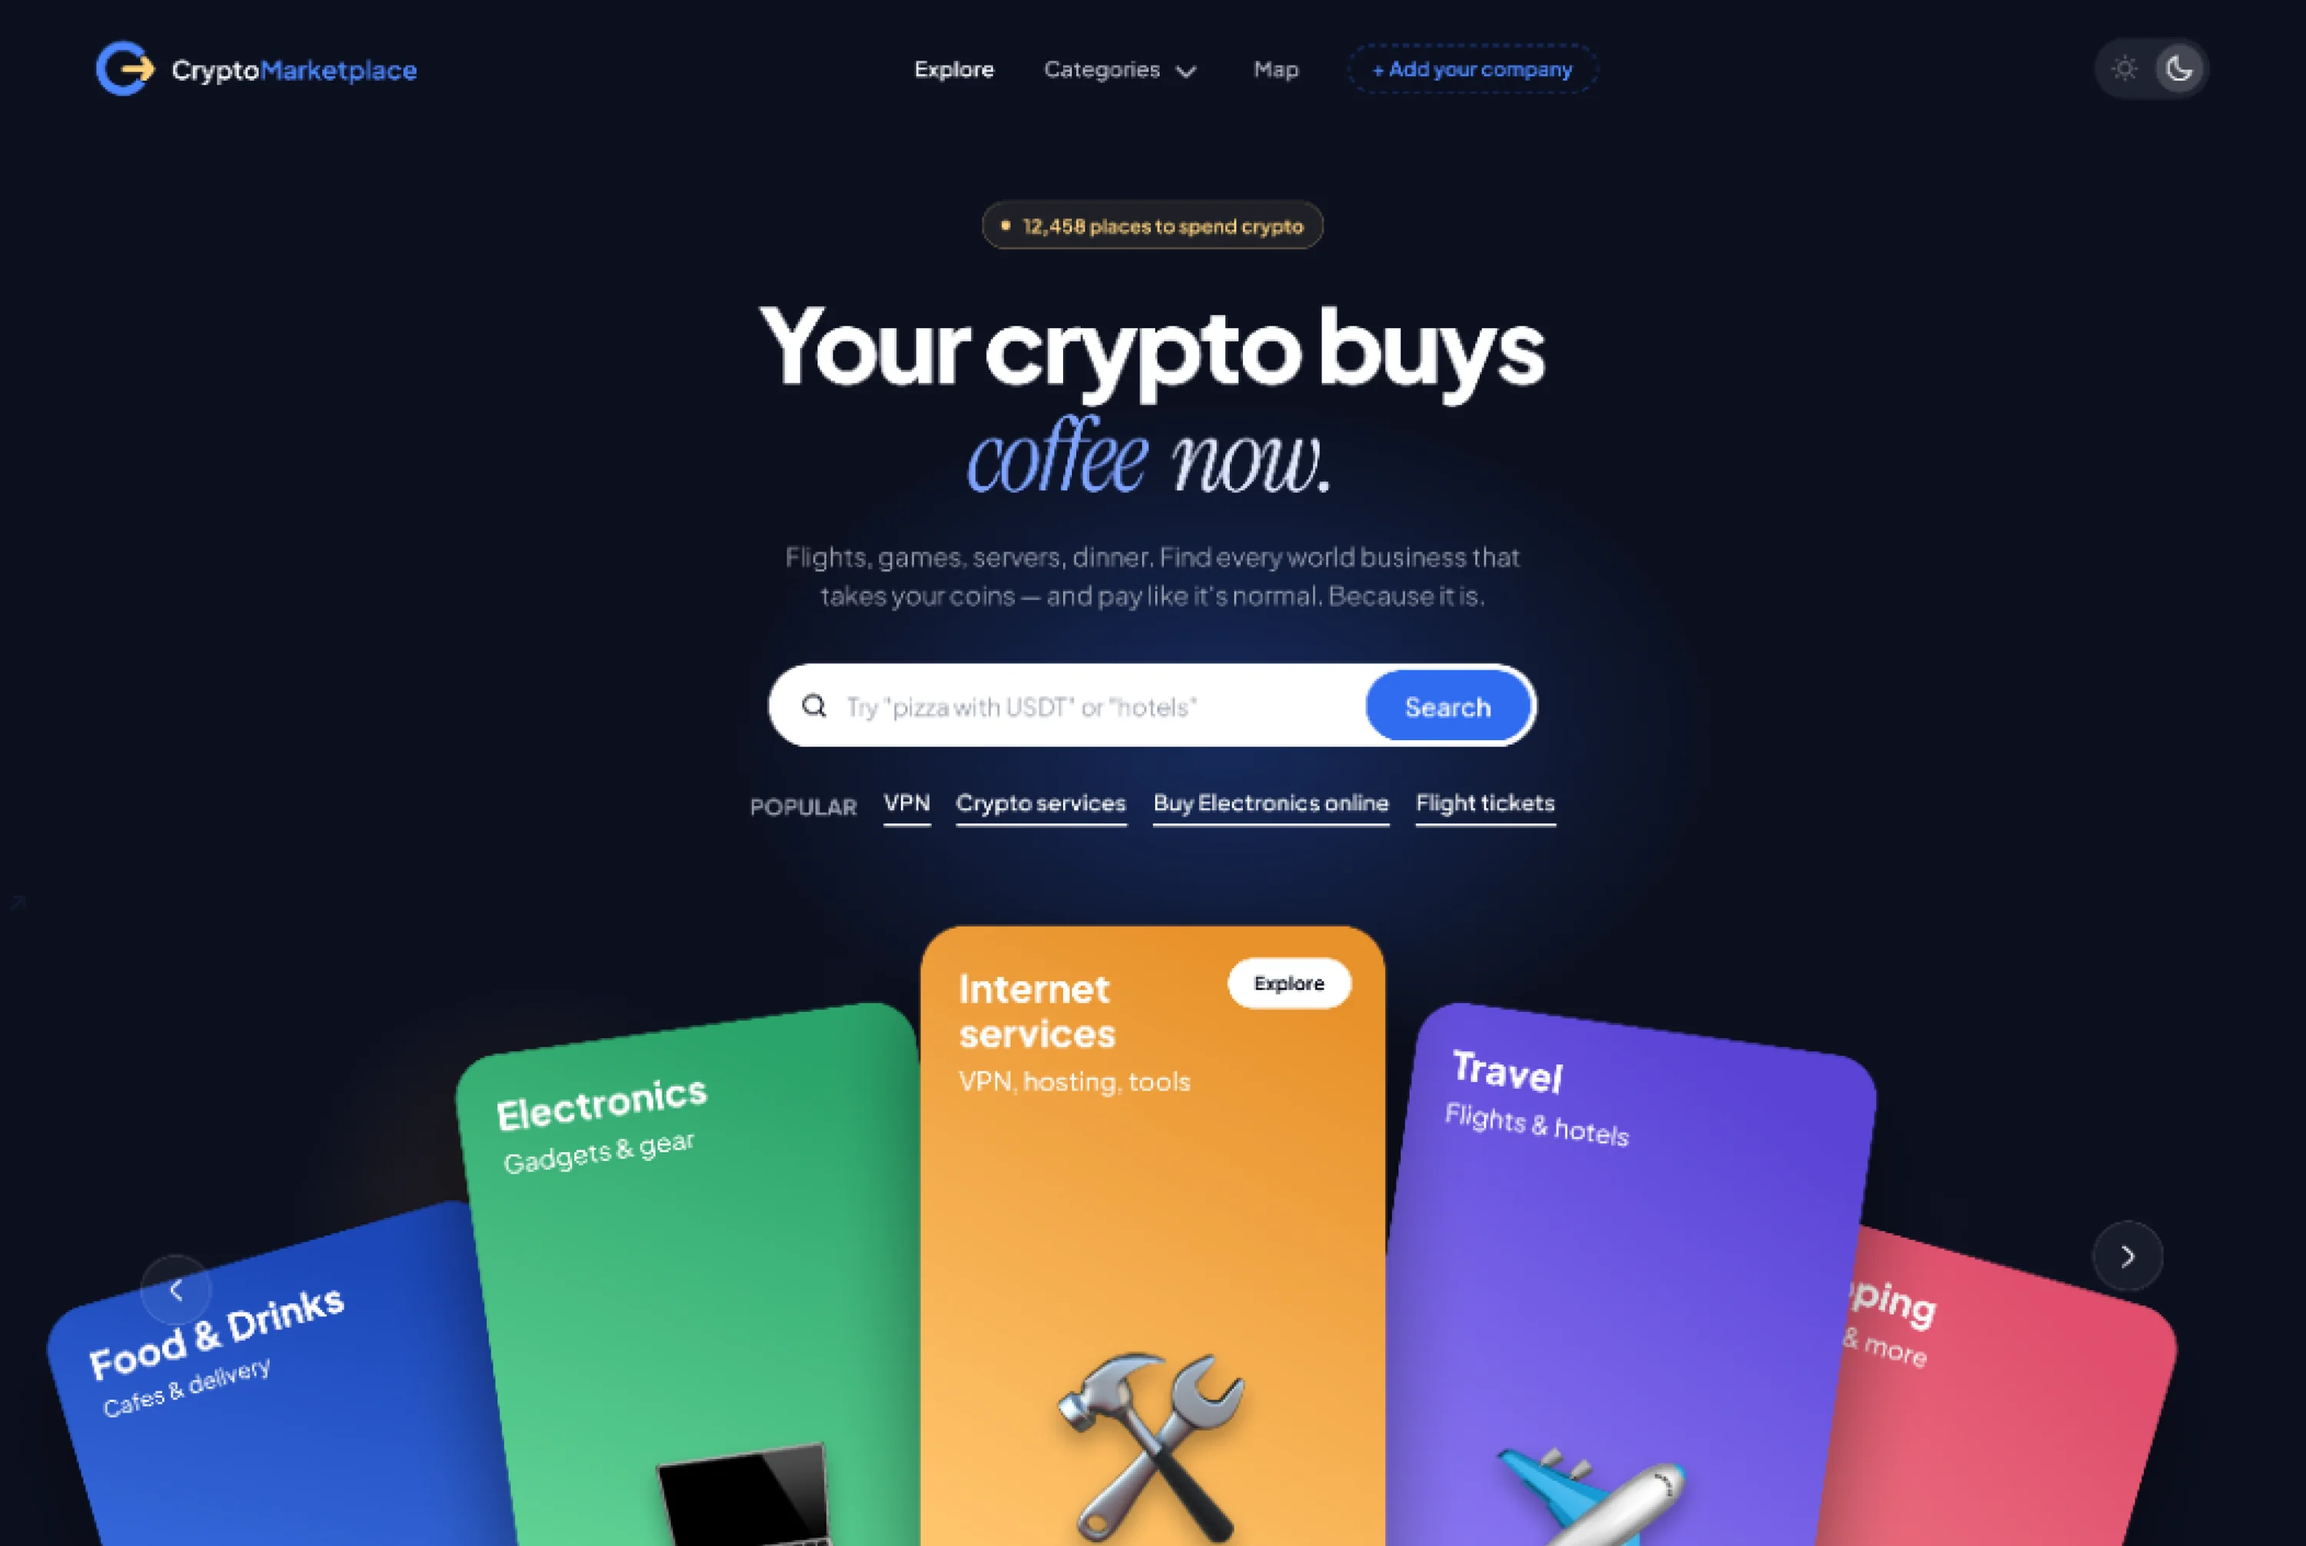
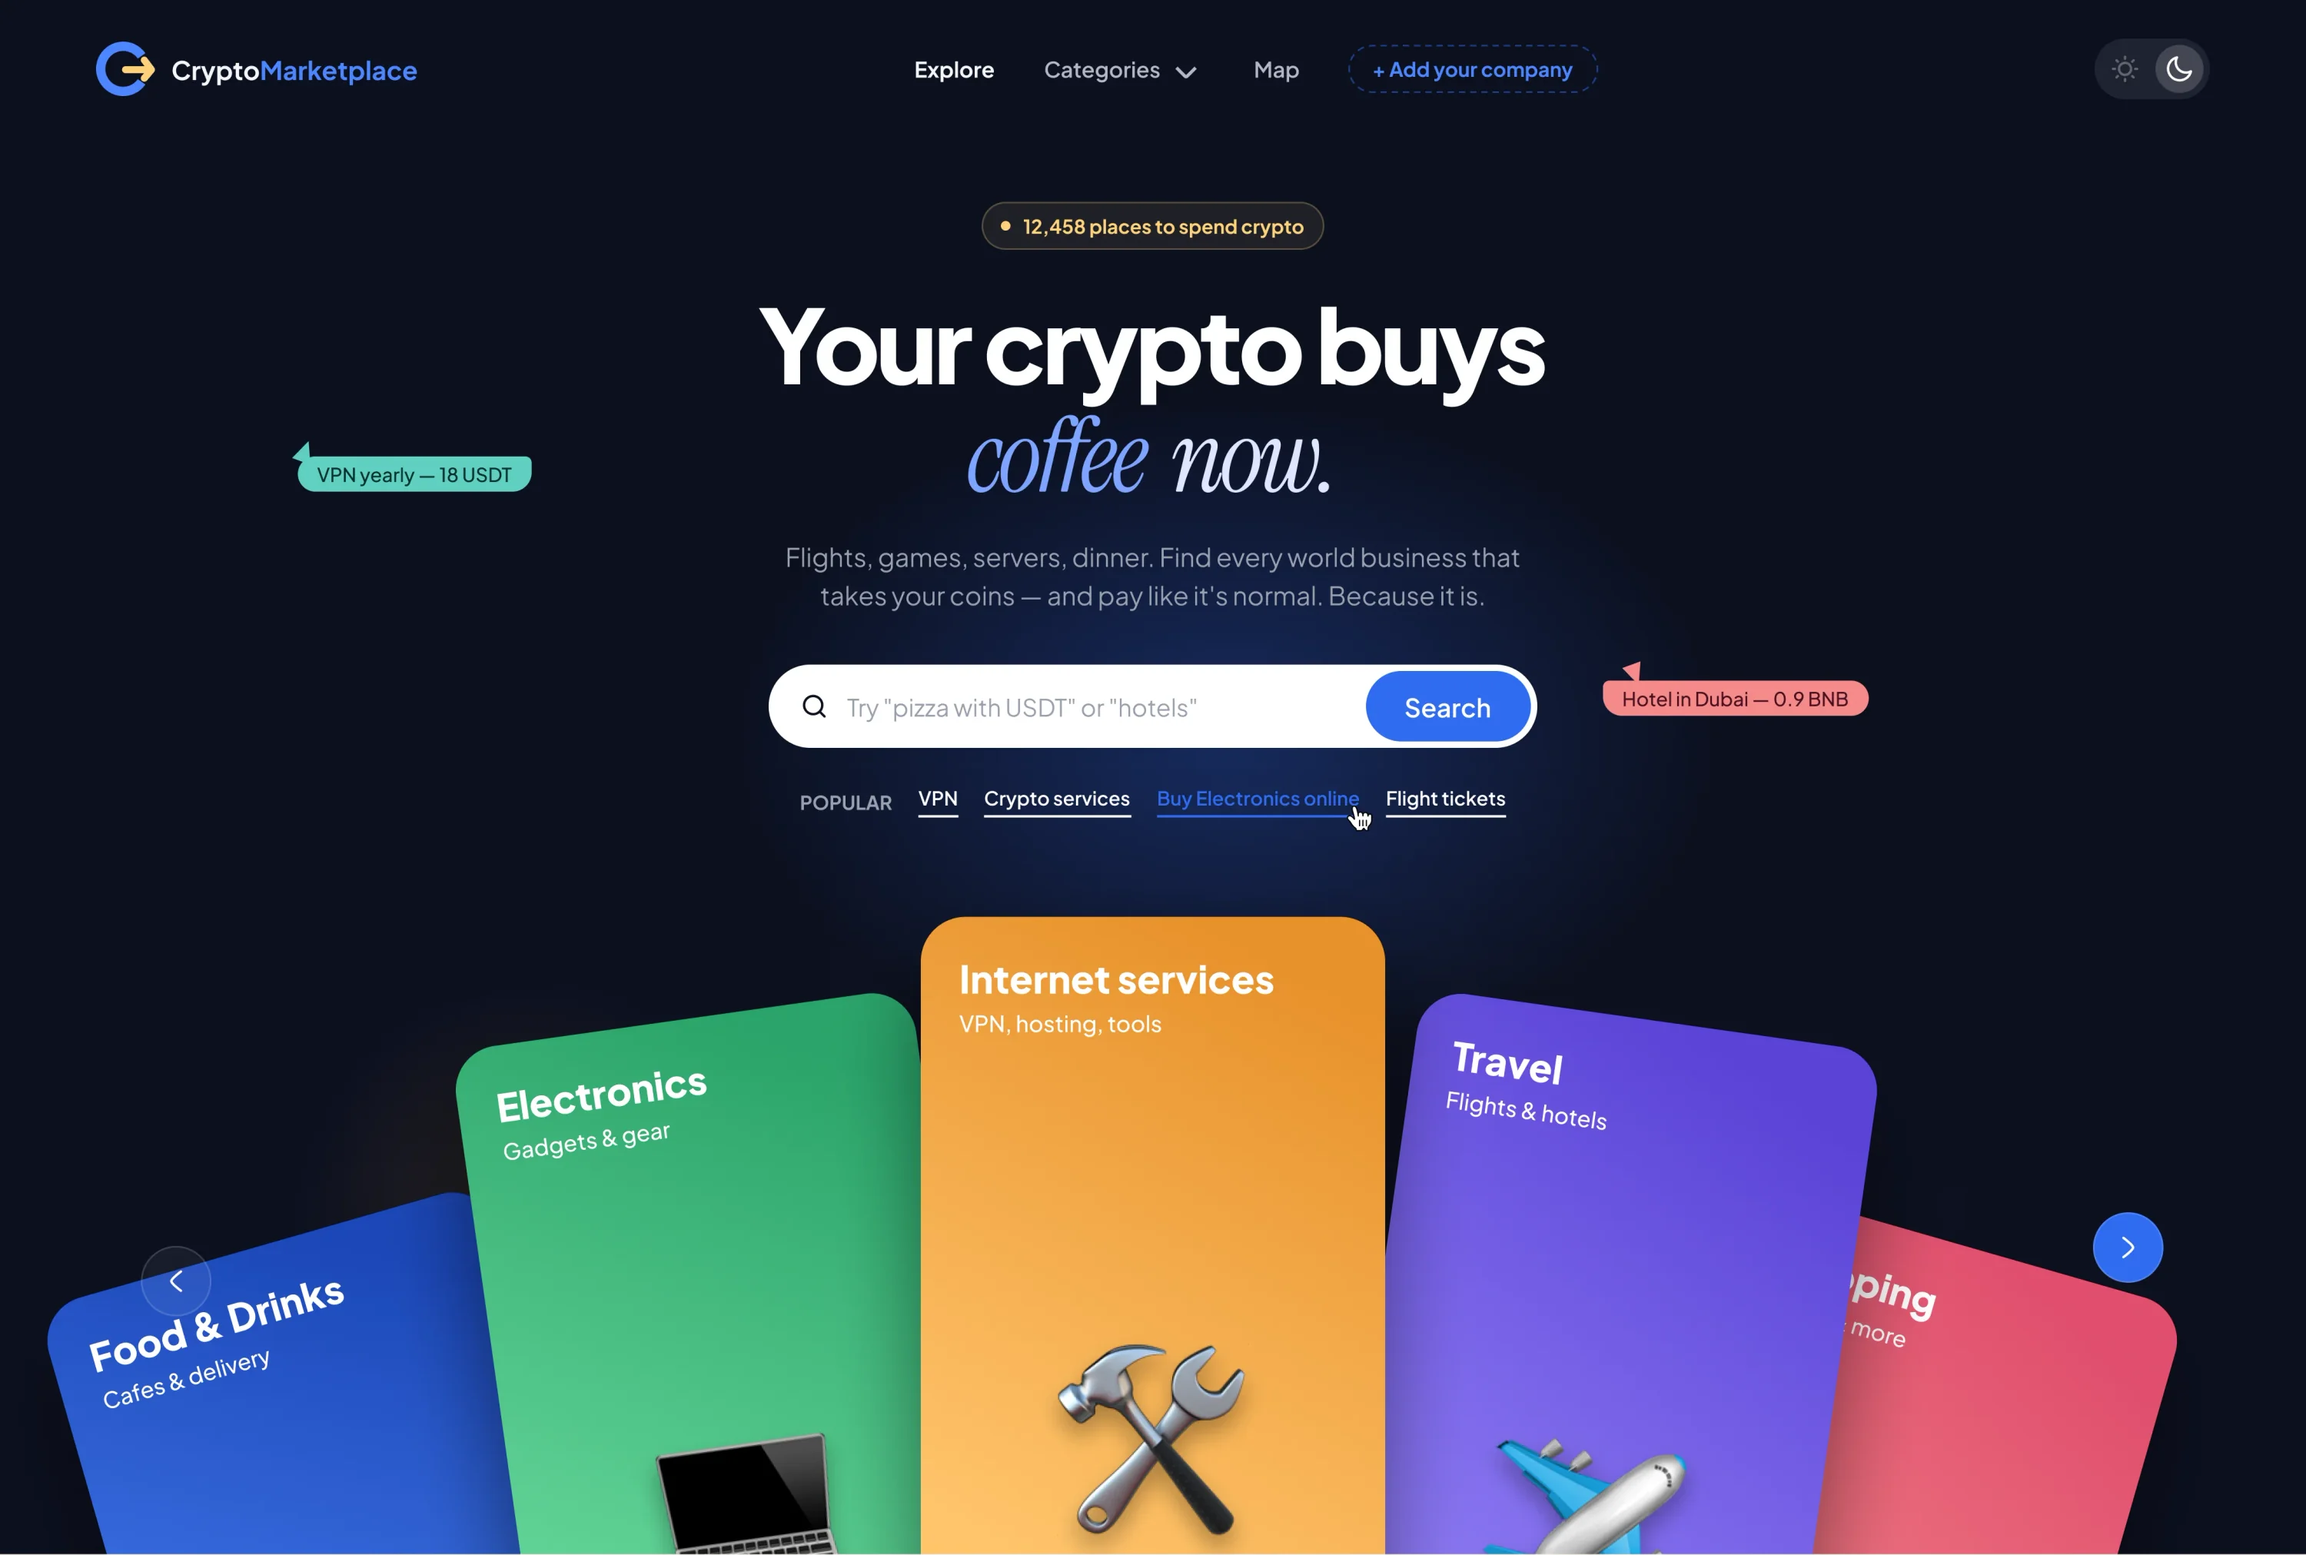
Убрана пустота вокруг фото в шапке, новая обложка Crypto Directory
У .ava не было height:auto. Из-за этого атрибут height="800" из разметки
задавал высоту блока 205x800, aspect-ratio отключался, а object-fit:contain
рисовал фото 205x200 по центру — сверху и снизу оставалось по 300px пустоты.
Теперь блок 205x200, ровно под фото, шапка стала короче на 600px.

Обложка кейса Crypto Directory заменена на новую картинку, вписана в 3000px
по длинной стороне, пропорции 4320x2913 сохранены.

diff --git a/assets/main.css b/assets/main.css
@@ -30,7 +30,10 @@ nav.top .sep{color:#c6c3bc}
 /* ---------- hero ---------- */
 .hero{display:flex; flex-direction:column; align-items:center; text-align:center;
   gap:clamp(20px,2.4vw,34px); padding:clamp(34px,5vw,70px) 0 clamp(40px,5vw,78px)}
-.hero .ava{width:clamp(140px,14vw,205px); aspect-ratio:205/200; object-fit:contain}
+/* height:auto обязателен: без него атрибут height="800" из разметки задаёт
+   высоту блока, aspect-ratio отключается, и object-fit:contain оставляет
+   по 300px пустоты сверху и снизу от фото */
+.hero .ava{width:clamp(140px,14vw,205px); height:auto; aspect-ratio:205/200; object-fit:contain}
 .hero h1{margin:0; font-size:clamp(34px,3.46vw,62px); font-weight:700; letter-spacing:-.03em; line-height:1.02}
 .tagline{display:flex; align-items:center; justify-content:center; gap:8px; flex-wrap:wrap; margin-top:14px}
 .tagline .role{color:#5a5f66; font-size:clamp(16px,1.06vw,19px); line-height:1.55}

diff --git a/crypto-directory/index.html b/crypto-directory/index.html
@@ -201,7 +201,7 @@
 
     <section style="padding-bottom:8px;">
       <div class="frame" data-src="/crypto-directory/img/hero-full.webp" data-title="Crypto Directory — главная страница целиком" tabindex="0">
-        <img src="/crypto-directory/img/hero-preview.webp" width="3000" height="2012" fetchpriority="high" decoding="async" alt="Crypto Directory — главная страница">
+        <img src="/crypto-directory/img/hero-preview.webp" width="3000" height="2023" fetchpriority="high" decoding="async" alt="Crypto Directory — главная страница">
         <div class="fade"></div>
         <div class="zoom" aria-hidden="true">
           <svg width="22" height="22" viewBox="0 0 24 24" fill="none" stroke="currentColor" stroke-width="2" stroke-linecap="round">
